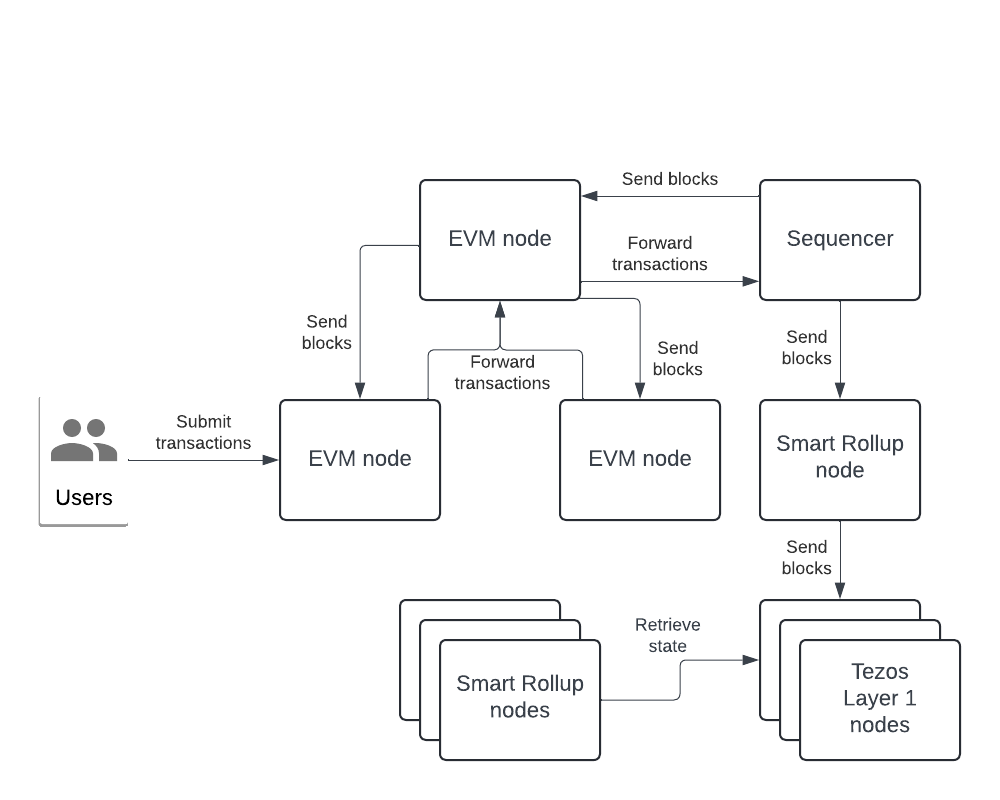
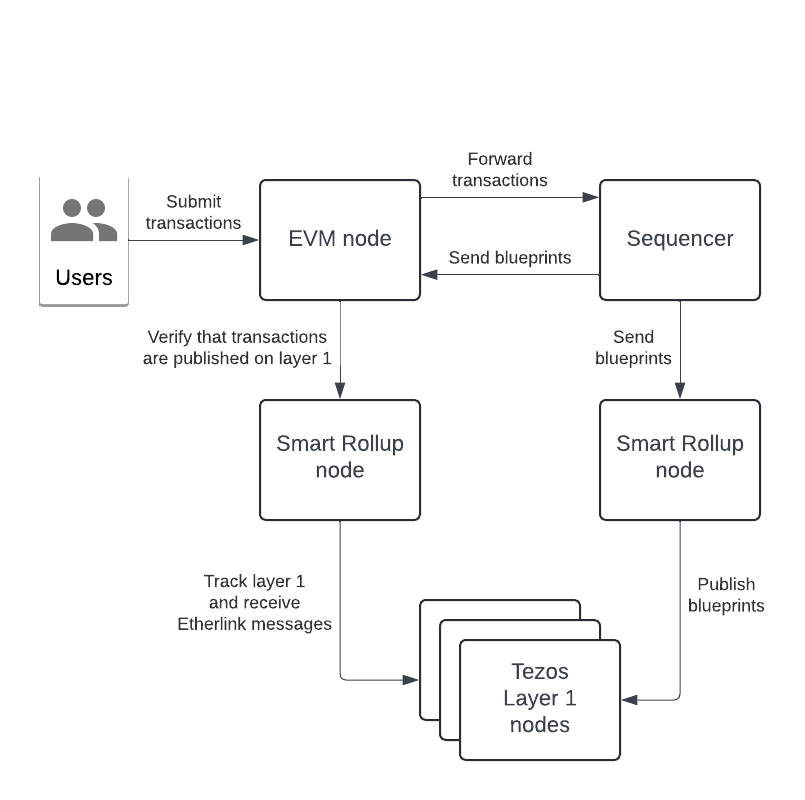
Rework based on conversation with Joel

diff --git a/docs/network/architecture.md b/docs/network/architecture.md
@@ -2,33 +2,53 @@
 title: Etherlink architecture
 ---
 
+Etherlink's main components are its nodes and the sequencer.
+
+## Sequencer
+
+Etherlink relies on a sequencer to process transactions in a fair order.
+It receives transactions from nodes and packages them into _blueprints_.
+Blueprints are like unvalidated, unfinalized blocks; they do not have a hash of a previous block and the transactions in them are not final until they are published on Tezos layer 1.
+
+## Nodes
+
 In its life cycle, an Etherlink transaction goes through three distinct types of nodes, each responsible for different aspects of Etherlink's features.
 These three nodes are being developed as part of the [Octez software suite](https://tezos.gitlab.io/introduction/tezos.html):
 
-- EVM nodes (`octez-evm-node`): The EVM nodes maintain a local copy of the Etherlink context, apply new blocks as they are created, and expose a [JSON RPC API](https://ethereum.org/en/developers/docs/apis/json-rpc/) compliant endpoint for clients to submit transactions to.
-When they receive a transaction, they forward it to their parent EVM node, which forwards it to its parent, and so on until it reaches the sequencer.
+- EVM nodes (`octez-evm-node`): The EVM nodes maintain a local copy of the Etherlink context and expose a [JSON RPC API](https://ethereum.org/en/developers/docs/apis/json-rpc/)-compliant endpoint for clients to submit transactions to.
+They forward these transactions to the sequencer and receive blueprints that contain transactions, which they use to update their state.
+They also check Smart Rollup nodes to verify that these transactions make it to Tezos layer 1.
 - Smart Rollup nodes (`octez-smart-rollup-node`): Smart Rollup nodes run the Etherlink kernel.
-The sequencer sends new Etherlink blocks to one of them and that Smart Rollup node publishes the Etherlink block on Tezos layer 1.
-The other Smart Rollup nodes monitor Tezos layer 1 for updates to the Etherlink state.
-The EVM nodes use internal technical information from these nodes but do not interact with them directly.
-For more information about Smart Rollup nodes in general, see [Smart Rollups](https://docs.tezos.com/architecture/smart-rollups) on docs.tezos.com.
+
+  The sequencer sends new Etherlink blueprints to one dedicated Smart Rollup node and that node publishes the information in those blueprints on Tezos layer 1.
+
+  The other Smart Rollup nodes monitor the Tezos layer 1 rollup inbox for these messages.
+  They filter the inbox to Etherlink-related messages, process them, and update their states.
+
+  Importantly, Etherlink transactions are not final until the blueprint that contains them is published on Tezos layer 1.
+  Therefore, the Smart Rollup nodes store the true state of Etherlink based on the information that they get from layer 1.
+  The Etherlink state that the EVM nodes store is not necessarily the true state because it may include transactions that have have been published on layer 1 yet.
+
+  For more information about Smart Rollup nodes in general, see [Smart Rollups](https://docs.tezos.com/architecture/smart-rollups) on docs.tezos.com.
 - Tezos layer 1 nodes (`octez-node`): The layer 1 nodes publish the Etherlink state as part of the Smart Rollup inbox.
-The Smart Rollup nodes get information from layer 1 nodes and react to what happens on the Tezos network and on Etherlink.
+The Smart Rollup nodes get information about Etherlink transactions from this inbox and react to what happens on the Tezos network and on Etherlink.
+For more information about Tezos layer 1 and its nodes, see [Architecture](https://docs.tezos.com/architecture) on docs.tezos.com.
 
-The Etherlink ecosystem also includes the sequencer, which is solely responsible for creating Etherlink blocks and sending them to EVM nodes and Smart Rollup nodes.
+## Diagram
 
-This diagram summarizes the interaction between the nodes:
+This diagram summarizes the interaction between the nodes and the sequencer:
 
-[A high-level diagram of Etherlink architecture, showing the interaction between the nodes and the sequencer](/img/architecture.png)
+![A high-level diagram of Etherlink architecture, showing the interaction between the nodes and the sequencer](/img/architecture.png)
 
 ## Transaction lifecycle
 
 The overall lifecycle of a typical operation is as follows:
 
 1. A user submits a transaction to an EVM node.
-1. The EVM node forwards the transaction in a hierarchy to their parent EVM nodes until it reaches Etherlink's sequencer
-1. The sequencer includes the transaction in a new block as soon as possible (less than 500ms after receiving it in a nominal scenario).
-1. The sequencer publishes the new Etherlink block (known as a blueprint) to layer 1.
+1. The EVM node forwards the transaction to the sequencer.
+1. The sequencer includes the transaction in a new blueprint as soon as possible (less than 500ms after receiving it in a nominal scenario).
+1. The sequencer sends the blueprint to a Smart Rollup node running Etherlink's kernel.
 1. The sequencer also shares the new blueprint with the EVM nodes for them to update their states.
-1. The Smart Rollup nodes tracking the state of Etherlink fetch this new Etherlink block from layer 1 and validate it.
-1. Validation from the Smart Rollup nodes allow the EVM nodes to assert that block has been faithfully posted by the sequencer.
+1. The Smart Rollup node publishes the blueprint to layer 1.
+1. The Smart Rollup nodes tracking the state of Etherlink fetch this new Etherlink information from layer 1,  validate it, and update their states.
+1. The EVM nodes check the state of the Smart Rollup nodes to verify that transactions have successfully and faithfully been finalized on layer 1.
